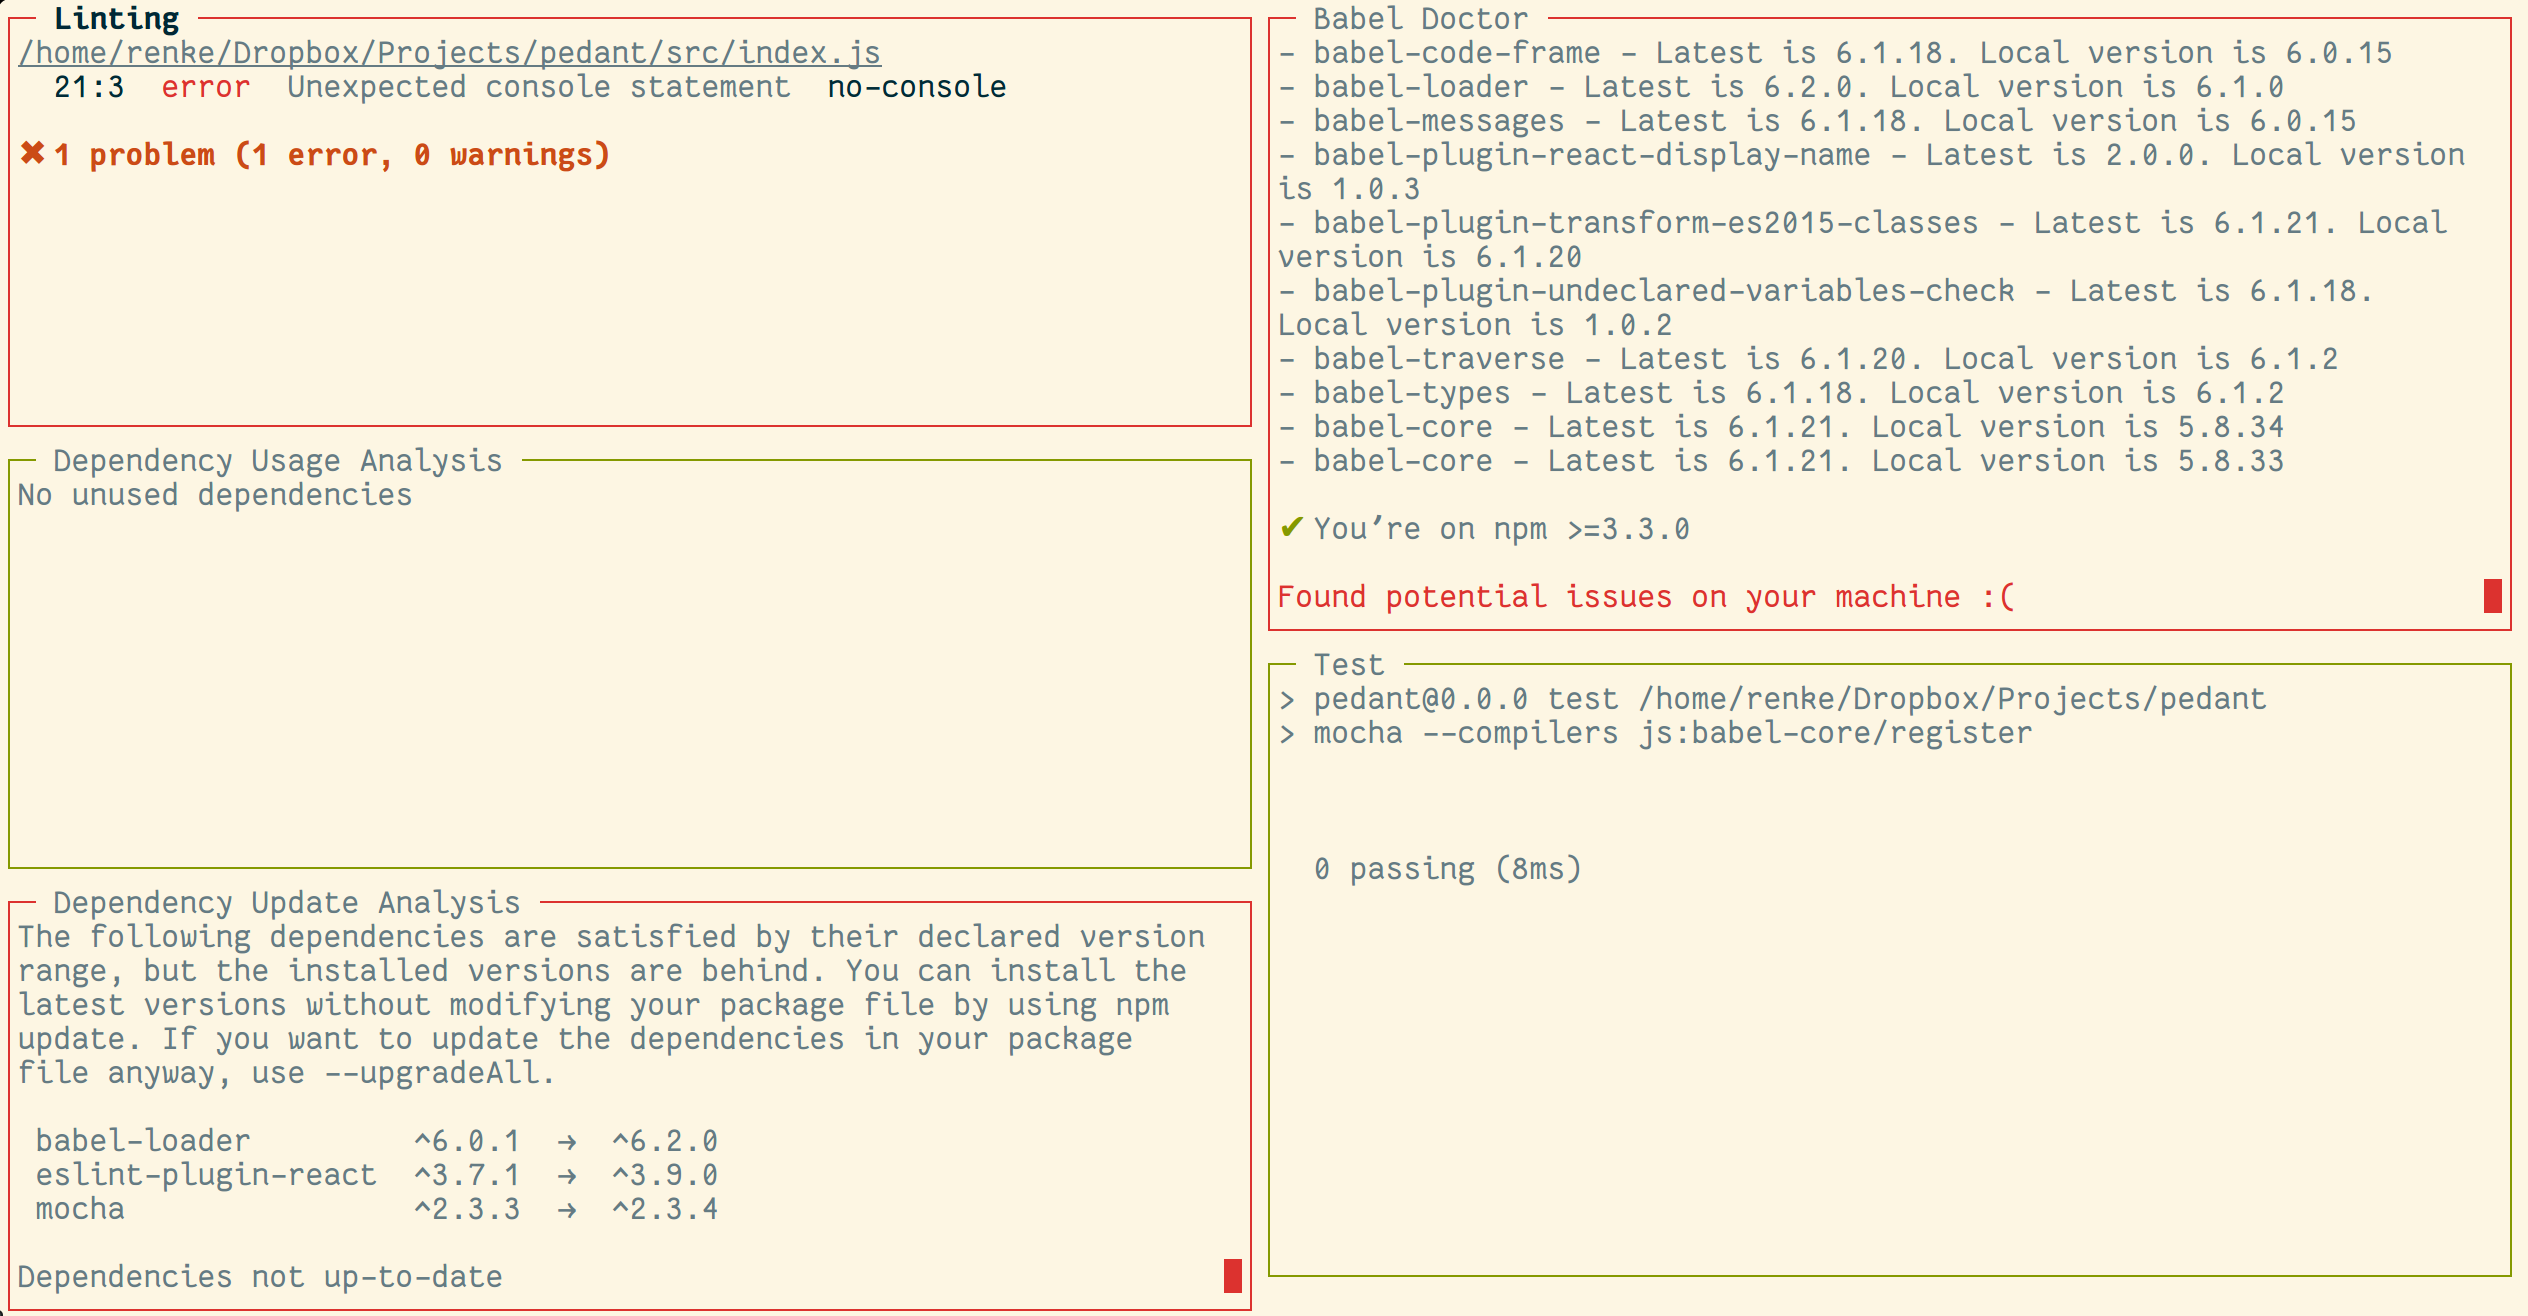
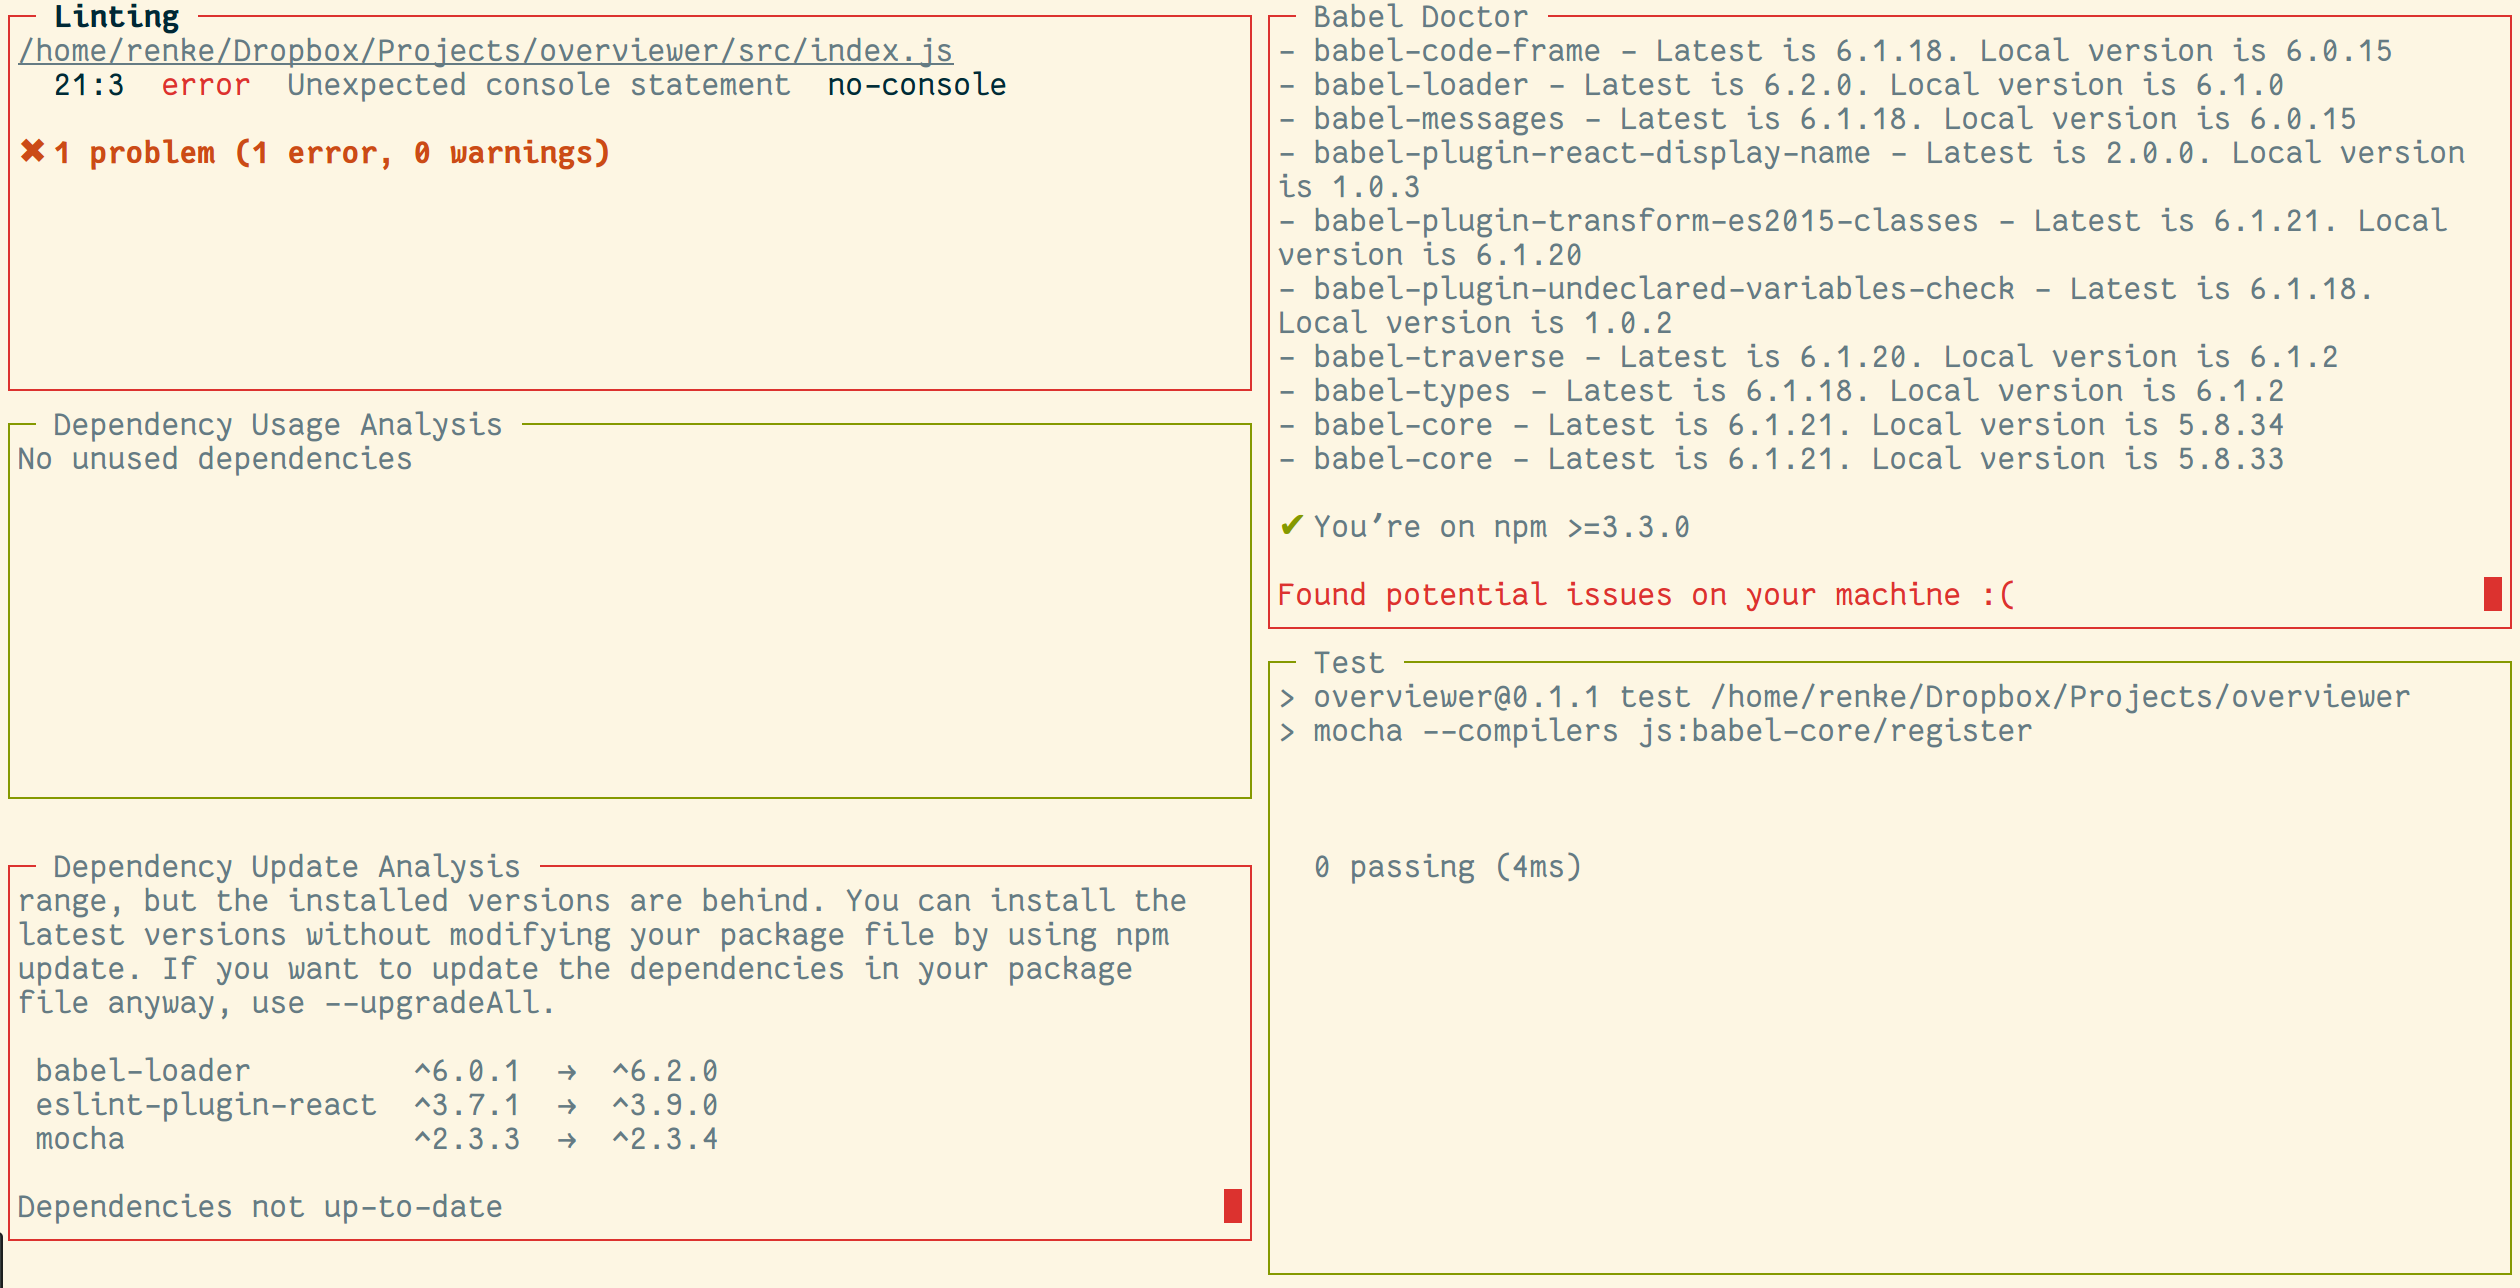
Rename to overviewer

Changed region(s): [[0.0, 0.0, 1.0, 1.0], [0.0, 0.0, 0.4024, 0.1242], [0.0, 0.3106, 0.2167, 0.4037]]

diff --git a/src/actions/config.js b/src/actions/config.js
@@ -4,7 +4,7 @@ import {parse} from "relaxed-json";
 export const LOAD_REPORTERS = "LOAD_REPORTERS";
 // export const SET_LAYOUT = "SET_LAYOUT";
 
-const CONFIG_FILE_NAME = ".pedantrc";
+const CONFIG_FILE_NAME = ".overviewerrc";
 
 function readConfig() {
   return new Promise((resolve, reject) => {

diff --git a/src/createScreen.js b/src/createScreen.js
@@ -4,7 +4,6 @@ export default function createScreen() {
   return blessed.screen({
     autoPadding: true,
     smartCSR: true,
-    title: "Pedant",
-    debug: true,
+    title: "Overviewer",
   });
 }

diff --git a/README.md b/README.md
@@ -1,7 +1,7 @@
-pedant
+Overviewer
 ======
 
-**pedant** lets you view the output of multiple programs at the same time. It also shows if a program failed or succeeded by using an appropriately colored border.
+**overviewer** lets you view the output of multiple programs at the same time. It also shows if a program failed or succeeded by using an appropriately colored border.
 
 ![Screenshot](doc/screenshot.png)
 
@@ -9,19 +9,19 @@ pedant
 
 **Global**:
 
-`npm install -g pedant`
+`npm install -g overviewer`
 
-Use `pedant` to start it.
+Use `overviewer` to start it.
 
 **Local**:
 
-`npm install --save-dev pedant`
+`npm install --save-dev overviewer`
 
-This is the preferred way if you want integrate pedant into your project's development workflow because it will be installed automatically for others that work on your project.
+This is the preferred way if you want integrate overviewer into your project's development workflow because it will be installed automatically for others that work on your project.
 
 ## Usage ##
 
-Use `pedant` to start it when you installed globally and `./node_modules/.bin/pedant` when you installed it locally.
+Use `overviewer` to start it when you installed globally and `./node_modules/.bin/overviewer` when you installed it locally.
 
 Keybinding        | Action
 ------------------| -------------
@@ -31,11 +31,11 @@ Shift-Tab         | Focus previous output
 Up                | Scroll up
 Down              | Scroll down
 
-** You must have a `.pedantrc` in the working directory. See below. **
+** You must have a `.overviewerrc` in the working directory. See below. **
 
 ## Configuration ##
 
-To specify which programs should be run by pedant a `.pedantrc` file has to be created.
+To specify which programs should be run by overviewer a `.overviewerrc` file has to be created.
 
 **Example**:
 
